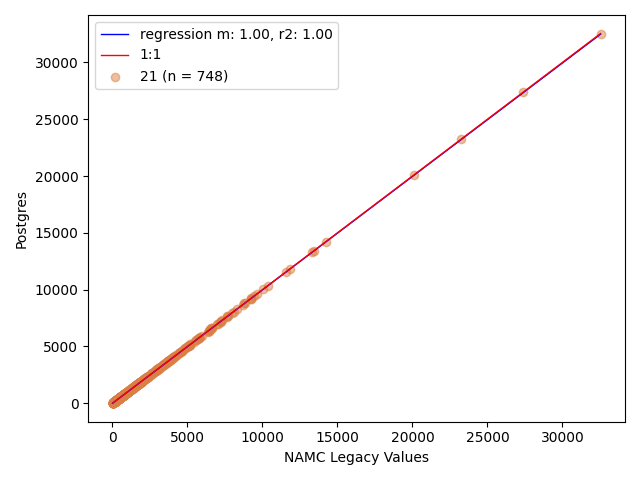
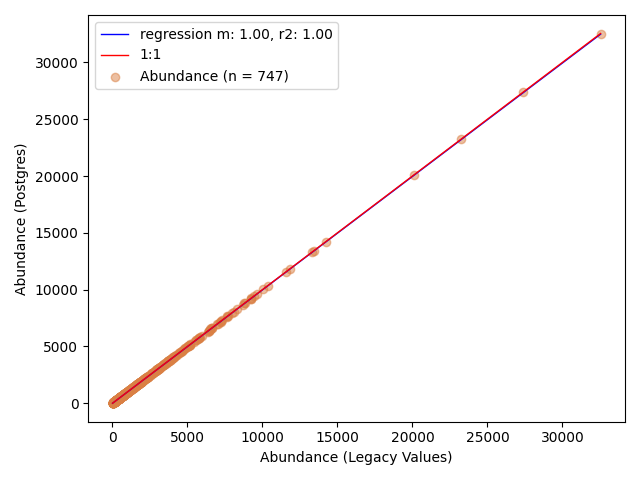
validation charts

diff --git a/docs/validation/metric_validation.md b/docs/validation/metric_validation.md
@@ -1,0 +1,229 @@
+---
+title: Metric Validation
+---
+
+# Richness
+
+## Richness
+
+![Richness]({{ site.baseurl }}/assets/images/20_Richness.png)
+
+## Abundance
+
+![Abundance]({{ site.baseurl }}/assets/images/21_Abundance.png)
+
+## Shannon's Diversity
+
+![Shannon's Diversity]({{ site.baseurl }}/assets/images/22_Shannons_Diversity.png)
+
+## Simpson's Diversity
+
+![Simpson's Diversity]({{ site.baseurl }}/assets/images/23_Simpsons_Diversity.png)
+
+## Evenness
+
+![Evenness]({{ site.baseurl }}/assets/images/24_Evenness.png)
+
+## # of EPT Taxa
+
+![# of EPT Taxa]({{ site.baseurl }}/assets/images/25__of_EPT_Taxa.png)
+
+## EPT Taxa Abundance
+
+![EPT Taxa Abundance]({{ site.baseurl }}/assets/images/26_EPT_Taxa_Abundance.png)
+
+
+# Dominance Metrics
+
+## Abundance of Dominant Family
+
+![Abundance of Dominant Family]({{ site.baseurl }}/assets/images/28_Abundance_of_Dominant_Family.png)
+
+## Abundance of Dominant Taxa
+
+![Abundance of Dominant Taxa]({{ site.baseurl }}/assets/images/30_Abundance_of_Dominant_Taxa.png)
+
+
+# Tolerance Indices
+
+## Hilsenhoff Biotic Index
+
+![Hilsenhoff Biotic Index]({{ site.baseurl }}/assets/images/31_Hilsenhoff_Biotic_Index.png)
+
+## # of Intolerant Taxa
+
+![# of Intolerant Taxa]({{ site.baseurl }}/assets/images/32__of_Intolerant_Taxa.png)
+
+## Intolerant Taxa abundance
+
+![Intolerant Taxa abundance]({{ site.baseurl }}/assets/images/33_Intolerant_Taxa_abundance.png)
+
+## # of Tolerant Taxa
+
+![# of Tolerant Taxa]({{ site.baseurl }}/assets/images/34__of_Tolerant_Taxa.png)
+
+## Tolerant Taxa abundance
+
+![Tolerant Taxa abundance]({{ site.baseurl }}/assets/images/35_Tolerant_Taxa_abundance.png)
+
+
+# Functional Feeding Groups
+
+## # of shredder taxa
+
+![# of shredder taxa]({{ site.baseurl }}/assets/images/37__of_shredder_taxa.png)
+
+## Shredder Abundance
+
+![Shredder Abundance]({{ site.baseurl }}/assets/images/38_Shredder_Abundance.png)
+
+## # of scraper taxa
+
+![# of scraper taxa]({{ site.baseurl }}/assets/images/39__of_scraper_taxa.png)
+
+## Scraper abundance
+
+![Scraper abundance]({{ site.baseurl }}/assets/images/40_Scraper_abundance.png)
+
+## # of collector-filterer taxa
+
+![# of collector-filterer taxa]({{ site.baseurl }}/assets/images/41__of_collector-filterer_taxa.png)
+
+## Collector-filterer abundance
+
+![Collector-filterer abundance]({{ site.baseurl }}/assets/images/42_Collector-filterer_abundance.png)
+
+## # of collector-gatherer taxa
+
+![# of collector-gatherer taxa]({{ site.baseurl }}/assets/images/43__of_collector-gatherer_taxa.png)
+
+## Collector-gatherer abundance
+
+![Collector-gatherer abundance]({{ site.baseurl }}/assets/images/44_Collector-gatherer_abundance.png)
+
+## # of predator taxa
+
+![# of predator taxa]({{ site.baseurl }}/assets/images/45__of_predator_taxa.png)
+
+## Predator abundance
+
+![Predator abundance]({{ site.baseurl }}/assets/images/46_Predator_abundance.png)
+
+
+# Functional Traits
+
+## # of clinger taxa
+
+![# of clinger taxa]({{ site.baseurl }}/assets/images/47__of_clinger_taxa.png)
+
+## # of Long-lived Taxa
+
+![# of Long-lived Taxa]({{ site.baseurl }}/assets/images/48__of_Long-lived_Taxa.png)
+
+
+# Compositional Metrics
+
+## # of Ephemeroptera taxa
+
+![# of Ephemeroptera taxa]({{ site.baseurl }}/assets/images/49__of_Ephemeroptera_taxa.png)
+
+## Ephemeroptera abundance
+
+![Ephemeroptera abundance]({{ site.baseurl }}/assets/images/50_Ephemeroptera_abundance.png)
+
+## # of Plecoptera taxa
+
+![# of Plecoptera taxa]({{ site.baseurl }}/assets/images/51__of_Plecoptera_taxa.png)
+
+## Plecoptera abundance
+
+![Plecoptera abundance]({{ site.baseurl }}/assets/images/52_Plecoptera_abundance.png)
+
+## # of Trichoptera taxa
+
+![# of Trichoptera taxa]({{ site.baseurl }}/assets/images/53__of_Trichoptera_taxa.png)
+
+## Trichoptera abundance
+
+![Trichoptera abundance]({{ site.baseurl }}/assets/images/54_Trichoptera_abundance.png)
+
+## # of Coleoptera taxa
+
+![# of Coleoptera taxa]({{ site.baseurl }}/assets/images/55__of_Coleoptera_taxa.png)
+
+## Coleoptera abundance
+
+![Coleoptera abundance]({{ site.baseurl }}/assets/images/56_Coleoptera_abundance.png)
+
+## # of Elmidae taxa
+
+![# of Elmidae taxa]({{ site.baseurl }}/assets/images/57__of_Elmidae_taxa.png)
+
+## Elmidae abundance
+
+![Elmidae abundance]({{ site.baseurl }}/assets/images/58_Elmidae_abundance.png)
+
+## # of Megaloptera taxa
+
+![# of Megaloptera taxa]({{ site.baseurl }}/assets/images/59__of_Megaloptera_taxa.png)
+
+## Megaloptera abundance
+
+![Megaloptera abundance]({{ site.baseurl }}/assets/images/60_Megaloptera_abundance.png)
+
+## # of Diptera taxa
+
+![# of Diptera taxa]({{ site.baseurl }}/assets/images/61__of_Diptera_taxa.png)
+
+## Diptera abundance
+
+![Diptera abundance]({{ site.baseurl }}/assets/images/62_Diptera_abundance.png)
+
+## # of Chironomidae taxa
+
+![# of Chironomidae taxa]({{ site.baseurl }}/assets/images/63__of_Chironomidae_taxa.png)
+
+## Chironomidae abundance
+
+![Chironomidae abundance]({{ site.baseurl }}/assets/images/64_Chironomidae_abundance.png)
+
+## # of Crustacea taxa
+
+![# of Crustacea taxa]({{ site.baseurl }}/assets/images/65__of_Crustacea_taxa.png)
+
+## Crustacea abundance
+
+![Crustacea abundance]({{ site.baseurl }}/assets/images/66_Crustacea_abundance.png)
+
+## # of Oligochaete taxa
+
+![# of Oligochaete taxa]({{ site.baseurl }}/assets/images/67__of_Oligochaete_taxa.png)
+
+## Oligochaete abundance
+
+![Oligochaete abundance]({{ site.baseurl }}/assets/images/68_Oligochaete_abundance.png)
+
+## # of Mollusca taxa
+
+![# of Mollusca taxa]({{ site.baseurl }}/assets/images/69__of_Mollusca_taxa.png)
+
+## Mollusca abundance
+
+![Mollusca abundance]({{ site.baseurl }}/assets/images/70_Mollusca_abundance.png)
+
+## # of Insect taxa
+
+![# of Insect taxa]({{ site.baseurl }}/assets/images/71__of_Insect_taxa.png)
+
+## Insect abundance
+
+![Insect abundance]({{ site.baseurl }}/assets/images/72_Insect_abundance.png)
+
+## # of non-insect taxa
+
+![# of non-insect taxa]({{ site.baseurl }}/assets/images/73__of_non-insect_taxa.png)
+
+## Non-insect abundance
+
+![Non-insect abundance]({{ site.baseurl }}/assets/images/74_Non-insect_abundance.png)
+
